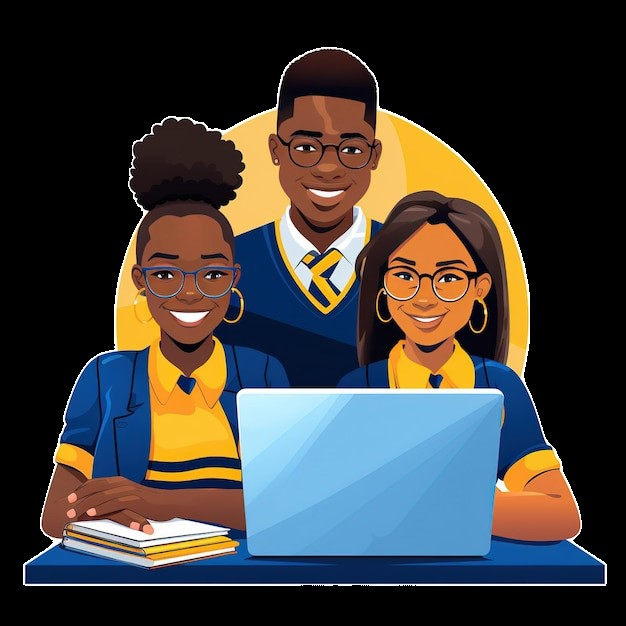
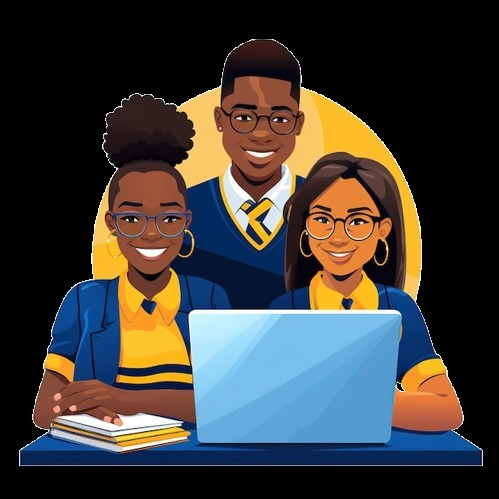
almost completed

diff --git a/index.html b/index.html
@@ -46,7 +46,7 @@
 
       <div class="memebers-container">
         <div class="members-elments">
-          <img src="members/back-1.jpg" alt="sts" />
+          <img src="members/back.jpg" alt="sts" />
           <h3>bishar abdinur</h3>
           <h5>Reg Num:vu-bcs-2301-0961</h5>
           <p>
@@ -65,7 +65,7 @@
         </div>
         <!-- members 2 -->
         <div class="members-elments">
-          <img src="members/back-1.jpg" alt="sts" />
+          <img src="members/back.jpg" alt="sts" />
           <h3>bishar abdinur</h3>
           <h5>Reg Num:vu-bcs-2301-0961</h5>
           <p>
@@ -84,7 +84,7 @@
         </div>
         <!-- members 3 -->
         <div class="members-elments">
-          <img src="members/back-1.jpg" alt="sts" />
+          <img src="members/back.jpg" alt="sts" />
           <h3>bishar abdinur</h3>
           <h5>Reg Num:vu-bcs-2301-0961</h5>
           <p>
@@ -103,7 +103,7 @@
         </div>
         <!-- members 4 -->
         <div class="members-elments">
-          <img src="members/back-1.jpg" alt="sts" />
+          <img src="members/back.jpg" alt="sts" />
           <h3>bishar abdinur</h3>
           <h5>Reg Num:vu-bcs-2301-0961</h5>
           <p>
@@ -122,7 +122,7 @@
         </div>
         <!-- members 5 -->
         <div class="members-elments">
-          <img src="members/back-1.jpg" alt="sts" />
+          <img src="members/back.jpg" alt="sts" />
           <h3>bishar abdinur</h3>
           <h5>Reg Num:vu-bcs-2301-0961</h5>
           <p>
@@ -141,7 +141,7 @@
         </div>
         <!-- members 6 -->
         <div class="members-elments">
-          <img src="members/back-1.jpg" alt="sts" />
+          <img src="members/back.jpg" alt="sts" />
           <h3>bishar abdinur</h3>
           <h5>Reg Num:vu-bcs-2301-0961</h5>
           <p>
@@ -160,7 +160,7 @@
         </div>
         <!-- members 7 -->
         <div class="members-elments">
-          <img src="members/back-1.jpg" alt="sts" />
+          <img src="members/back.jpg" alt="sts" />
           <h3>bishar abdinur</h3>
           <h5>Reg Num:vu-bcs-2301-0961</h5>
           <p>
@@ -179,7 +179,7 @@
         </div>
         <!-- members 8 -->
         <div class="members-elments">
-          <img src="members/back-1.jpg" alt="sts" />
+          <img src="members/back.jpg" alt="sts" />
           <h3>bishar abdinur</h3>
           <h5>Reg Num:vu-bcs-2301-0961</h5>
           <p>
@@ -198,7 +198,7 @@
         </div>
         <!-- members 9 -->
         <div class="members-elments">
-          <img src="members/back-1.jpg" alt="sts" />
+          <img src="members/back.jpg" alt="sts" />
           <h3>bishar abdinur</h3>
           <h5>Reg Num:vu-bcs-2301-0961</h5>
           <p>
@@ -217,7 +217,7 @@
         </div>
         <!-- members 10 -->
         <div class="members-elments">
-          <img src="members/back-1.jpg" alt="sts" />
+          <img src="members/back.jpg" alt="sts" />
           <h3>bishar abdinur</h3>
           <h5>Reg Num:vu-bcs-2301-0961</h5>
           <p>

diff --git a/style.css b/style.css
@@ -131,7 +131,10 @@ nav .logo {
   width: 60rem;
   height: 40rem;
   animation: fromLeft 3s ease-in-out;
-  background-blend-mode: multiply;
+  background: none;
+  mix-blend-mode: screen;
+  color: transparent;
+  filter: brightness(1.4);
 }
 
 @keyframes updown {
